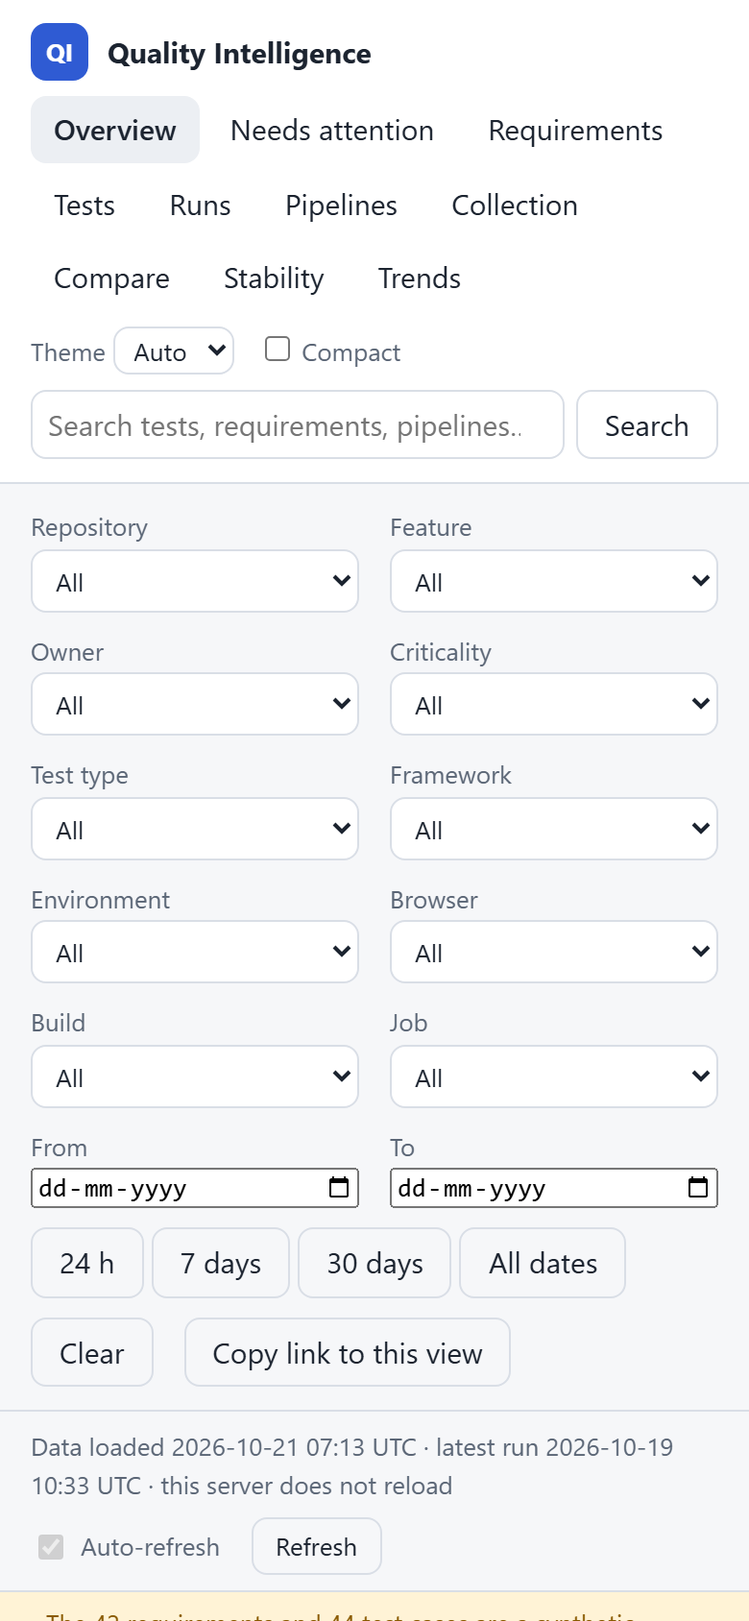
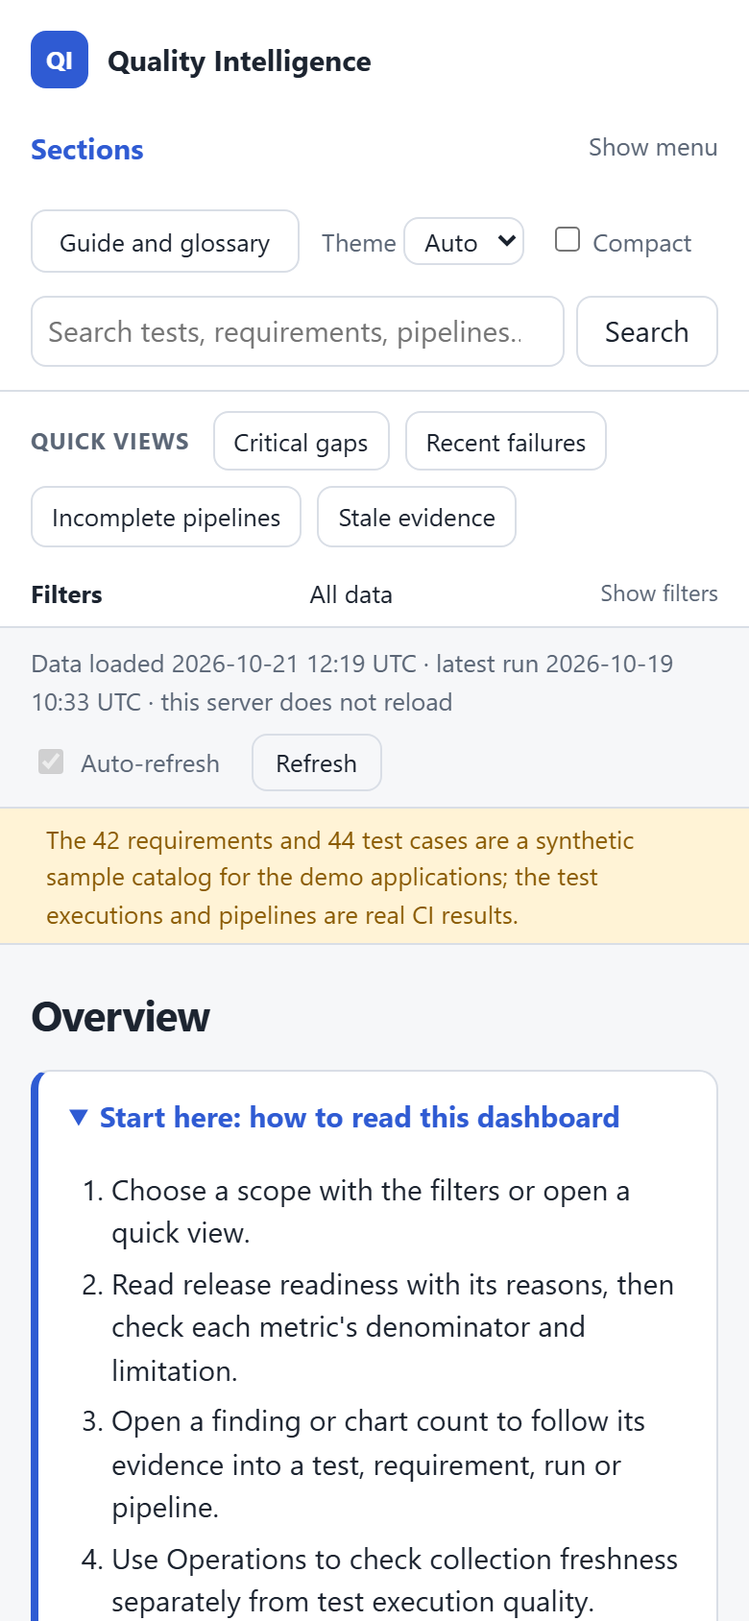
docs(dashboard): add UX guide and reviewed screenshots

diff --git a/tools/screenshots.py b/tools/screenshots.py
@@ -16,6 +16,7 @@ import sys
 import tempfile
 import threading
 import time
+from datetime import UTC, datetime, timedelta
 from pathlib import Path
 
 import uvicorn
@@ -25,12 +26,15 @@ from qualityintel.cli import main as cli_main
 from qualityintel.dashboard.app import create_app
 from qualityintel.gates.config import load_gate_config
 from qualityintel.history.store import HistoryStore
+from qualityintel.ingest.batch import import_pipeline
 from qualityintel.ingest.catalog_file import load_catalog
+from qualityintel.models.collection import PipelineCollection
 from qualityintel.workspace import Workspace
 
 ROOT = Path(__file__).parents[1]
 PIPELINES = ROOT / "samples" / "pipelines" / "cypress-taskboard"
 TASKBOARD_JOBS = ("api", "ui-chrome", "ui-firefox", "ui-edge", "component")
+TASKBOARD_REPO = "niranjankagri/cypress-typescript-framework"
 SHOTS = [
     # (file name, hash route, viewport width, colour scheme, full page)
     ("dashboard-overview.png", "#/", 1280, "light", True),
@@ -47,12 +51,15 @@ SHOTS = [
     ("dashboard-trends.png", "#/trends", 1280, "light", False),
     ("dashboard-compare.png", "#/compare?framework=testng&base=f5a40d5&head=1d03232", 1280, "light", False),
     ("dashboard-attention.png", "#/attention", 1280, "light", False),
+    ("dashboard-action-center.png", "#/attention", 1280, "light", True),
     ("dashboard-search.png", "#/search?q=checkout", 1280, "light", False),
     ("dashboard-phone.png", "#/", 390, "light", False),
 ]
 # Taken on the two real TaskBoard pipeline executions (samples/pipelines)
 PIPELINE_SHOTS = [
     ("dashboard-pipelines.png", f"#/pipelines?jobs={','.join(TASKBOARD_JOBS)}", 1280, "light", True),
+    ("dashboard-operations.png", "#/collection", 1280, "light", True),
+    ("dashboard-repository-coverage.png", "#/requirements", 1280, "light", True),
 ]
 
 
@@ -85,7 +92,7 @@ def main(argv: list[str]) -> int:
             store.snapshots(),
             gate=load_gate_config(ROOT / "samples" / "gates" / "nightly.toml"),
         )
-    pipelines = pipeline_workspace(Path(tempfile.mkdtemp()) / "pipelines.db")
+    pipelines = pipeline_workspace()
     if pipelines is None:
         print("pipeline samples did not import cleanly", file=sys.stderr)
         return 3
@@ -98,31 +105,54 @@ def main(argv: list[str]) -> int:
     return 0
 
 
-def pipeline_workspace(database: Path) -> Workspace | None:
-    """Both TaskBoard pipelines, imported with the documented command (one call per execution)."""
+def pipeline_workspace() -> Workspace | None:
+    """Both sample TaskBoard pipelines and their recorded collection outcomes."""
+    runs = []
     for folder in sorted(p for p in PIPELINES.iterdir() if p.is_dir()):
         _, commit, run_id = folder.name.split("_")
-        jobs = [
-            arg for report in sorted(folder.glob("*.json")) for arg in ("--job", f"{report.stem}={report}")
-        ]
-        with contextlib.redirect_stdout(io.StringIO()):
-            code = cli_main(
-                [
-                    "history",
-                    "import",
-                    "--database",
-                    str(database),
-                    "--pipeline",
-                    run_id,
-                    "--commit",
-                    commit,
-                    *jobs,
-                ]
-            )
-        if code != 0:
+        batch = import_pipeline(
+            {report.stem: [str(report)] for report in sorted(folder.glob("*.json"))},
+            run_id,
+            commit=commit,
+            repository=TASKBOARD_REPO,
+        )
+        if not batch.complete:
             return None
-    with HistoryStore(database) as store:
-        return Workspace(load_catalog(PIPELINES / "catalog.toml"), store.runs())
+        runs.extend(batch.runs)
+    collected_at = datetime.now(UTC) - timedelta(hours=1)
+    collections = [
+        PipelineCollection(
+            pipeline_id="39238241112",
+            attempt=1,
+            repository=TASKBOARD_REPO,
+            workflow="ci.yml",
+            run_number=10,
+            branch="main",
+            commit="80e331e",
+            conclusion="success",
+            url="https://github.com/niranjankagri/cypress-typescript-framework/actions/runs/39238241112",
+            collected_at=collected_at,
+            state="complete",
+        ),
+        PipelineCollection(
+            pipeline_id="38842296207",
+            attempt=1,
+            repository=TASKBOARD_REPO,
+            workflow="ci.yml",
+            run_number=6,
+            branch="main",
+            commit="a15d3c7",
+            conclusion="cancelled",
+            url="https://github.com/niranjankagri/cypress-typescript-framework/actions/runs/38842296207",
+            collected_at=collected_at,
+            state="incomplete",
+            problems=(
+                "job ui-firefox: artifact report-ui-firefox not found "
+                "(job not run, cancelled or failed early)",
+            ),
+        ),
+    ]
+    return Workspace(load_catalog(PIPELINES / "catalog.toml"), runs, collections=collections)
 
 
 def capture(
@@ -150,6 +180,14 @@ def capture(
             page.goto(f"http://127.0.0.1:{port}/{route}")
             page.locator("#view h1").wait_for()
             page.wait_for_load_state("networkidle")
+            page.evaluate(
+                """() => {
+                  if (document.activeElement instanceof HTMLElement) document.activeElement.blur();
+                  document.documentElement.scrollTop = 0;
+                  document.body.scrollTop = 0;
+                  window.scrollTo(0, 0);
+                }"""
+            )
             page.screenshot(path=out / name, full_page=full)
             print(f"saved {out / name}")
             context.close()

diff --git a/docs/dashboard.md b/docs/dashboard.md
@@ -20,7 +20,7 @@ a time. If a rebuild fails (database locked by a running import, corrupted file,
 the last good data stays, and the page says so: "The last refresh failed ...; the figures shown
 are from ...".
 
-The bar under the filters shows when the data was loaded, the latest run, the last collection
+The data bar shows when the snapshot was loaded, the latest run, the newest collection record
 and incomplete collections of the last 7 days ([collection.md](collection.md)). The page asks
 `/api/status` at the server's interval and re-renders the current view when the data changed;
 the address and every filter stay as they are. *Auto-refresh* switches that off (remembered in
@@ -35,21 +35,65 @@ every page and API call needs HTTP basic authentication. Put TLS in front when o
 
 | View | Shows | Drill-down |
 |---|---|---|
-| Overview | **release status** (ready / at risk / blocked / unknown, with every reason and the gate's rules, [readiness.md](readiness.md)), test executions, critical requirements without automation, flaky candidates, incomplete pipelines, latest collection; requirements in scope; requirement coverage, automation coverage, automated requirement coverage; execution pass rate and pass / fail / error / skip counts of the snapshot; snapshot runs; critical requirements without automation; failing requirements; other gaps | every card opens the list behind it (e.g. requirement coverage -> requirements without tests) |
+| Overview | **release status** (ready / at risk / blocked / unknown, with every reason and the gate's rules, [readiness.md](readiness.md)), test executions, critical requirements without automation, flaky candidates, incomplete pipelines, latest collection; requirements in scope; requirement coverage, automation coverage, automated requirement coverage; execution pass rate and pass / fail / error / skip counts of the snapshot; repository collection freshness; snapshot runs; critical requirements without automation; failing requirements; other gaps | cards and quick actions open the existing filtered list or evidence page |
 | Search | everything whose text contains every word of the query: repositories, workflows, pipelines (and GitHub run ids), tests, requirements, first lines of failure messages; grouped by kind with counts, query words marked; the header search opens it from any page; the repository and date filters apply | result -> its page (keeping the filters and the result's repository); pipeline -> its GitHub run |
-| Needs attention | newly failing tests, incomplete pipelines, critical gaps, recurring failures, confirmed duration regressions, flaky candidates (suspected), overdue collections; state (open, suspected, unknown, resolved), why each is listed, evidence count, first and last seen ([attention.md](attention.md)) | finding -> its test, pipeline, requirement or collection page; GitHub run |
+| Needs attention | existing findings grouped as Investigate now (open), Monitor (suspected or unknown), and Resolved; observed reason, evidence count, first and last seen, repository, affected entity, copy link ([attention.md](attention.md)) | finding -> its test, pipeline, requirement or collection page; GitHub run |
 | Requirements | id, title, feature, criticality, automated / linked test cases, coverage status, execution status; status filter | requirement -> its test cases and their latest executions |
 | Tests | every executed test with run, pass, fail, error, skip counts and last failure; search; latest-outcome filter | test -> investigation page: breadcrumbs (repository > workflow > pipeline > run > test), latest and previous result, context, repository and workflow, stability per context, source run with a link to the CI run, linked requirements and test cases, pass/fail pattern, duration chart with its numbers, latest failure and stack trace (shown as text, never as HTML, collapsed), two executions side by side (missing values say *not recorded*), every execution; copy the test identifier, the page link or a summary (text or Markdown) |
 | Compare | two builds side by side (runs, pass rate, counts and their differences, coverage snapshot, GitHub run attempts and incomplete pipelines of each build, a summary to copy) and the changes where both ran the same suite: newly failing, recovered, still failing, new, removed, slower, newly flaky; change-type chips; suites that ran in one build only listed separately ([history.md](history.md#comparing-builds)) | test -> its history |
 | Runs | every imported run with pipeline / job, context, counts and pass rate | run -> all results, failures first |
 | Pipelines | pipeline executions newest first, collected ones included even when they uploaded nothing; per pipeline: status (incomplete before the CI conclusion success / failure / cancelled), repository, workflow, run number, branch, commit, links to the exact GitHub run and commit, recorded problems, jobs with start time, attempt and counts, attempts of re-runs side by side; status chips and a workflow filter (both in the address); expected jobs ([pipelines.md](pipelines.md)) | job -> its run; run and commit -> GitHub |
-| Collection | per repository: last collection, fresh or overdue against `QI_COLLECTION_HOURS` (default 26 h), pipelines, complete, incomplete, results and CI conclusions of the last 7 days, every missing artifact and ingestion problem, link to the collection workflow (`QI_COLLECTION_URL`) ([collection.md](collection.md)) | repository -> its pipelines |
+| Collection | dashboard snapshot state and refresh time; per repository: last collection, last complete collection, fresh or overdue against `QI_COLLECTION_HOURS` (default 26 h), pipelines, complete, incomplete, results and CI conclusions of the last 7 days, every missing artifact and ingestion problem, link to the collection workflow (`QI_COLLECTION_URL`) ([collection.md](collection.md)) | repository -> its pipelines |
 | Trends | daily snapshots (results, pass rate, test duration, requirements by status), days that are not comparable (new suites, carried-over runs), duration per run for each context, coverage snapshots; every chart with its numbers in a table | run context charts list each run with its build |
 | Stability | class counts; tests needing attention with evidence; recurring failures; duration regressions; runs per context | test -> history; run strip -> run ([history.md](history.md)) |
 
 Filters (repository, feature, owner, criticality, test type, framework, environment, browser, build, pipeline job, from/to date) apply to every view
 and are kept in the address, so a filtered view can be bookmarked or shared. The drop-down values
 come from the data (`/api/facets`), never from a fixed list.
+
+**Navigation and quick views.** The header groups the existing routes as Overview, Investigate,
+Coverage, Execution, Analytics and Operations. Links keep the active URL-backed scope; the active
+section is marked for keyboard and screen-reader users. At phone widths, the navigation and
+unfiltered advanced filters start collapsed and can be opened as needed; the filter panel can be
+collapsed at every width. Quick
+views apply these existing filters and routes: Critical gaps (attention kind), Recent failures
+(failed latest outcomes from the last seven days), Incomplete pipelines, and Stale evidence.
+The active filter chips include page-specific filters and can remove them; Clear removes the
+current route filters without removing comparison build selectors. Details keep a Back to filtered
+results link when opened from a result list.
+
+**Overview guide and definitions.** The overview opens with a short workflow guide; *Guide and
+glossary* in the header can reopen it. Each headline metric has a keyboard-accessible definition.
+The copied release summary is built only from `/api/readiness`, `/api/summary` and `/api/collection`
+values for the current scope, and carries the gate reasons and limitations. The overview also
+shows test changes for the latest two builds only when the existing comparison API finds shared
+suites; its counts link to the same filtered Compare view. It does not present an incomparable
+pair as a delta. Collection freshness counts all repositories whose latest collection record is
+within the configured server window, regardless of run filters; it is not a test pass rate. An
+empty repository set is `n/a`.
+
+**Requirement breakdowns.** Criticality, feature and owner cells separate linked-test coverage,
+automation, execution status and stale evidence. Each nonzero cell drills into a query that filters
+that exact field. Repository rows count only requirements with a matched result linked to a
+requirement in that repository. They describe observed execution evidence, not repository
+ownership or an expectation that a repository covers the entire global catalog. Requirements
+without a matched result in that repository are excluded from that breakdown's denominator.
+
+**Action center groups.** The existing attention analysis remains the source of findings and order.
+Open findings appear under *Investigate now*. Suspected and unknown findings appear under
+*Monitor*. Resolved findings remain under *Resolved*. These are deterministic presentation groups
+of the documented states in [attention.md](attention.md), not new severity or diagnosis rules.
+Filtering to a finding state opens its group. Finding type filtering is applied by the API before its
+200-item limit. Each row retains the reason,
+evidence count, first and last observation, repository when recorded, investigation link, and
+GitHub run link when available; the copy action copies that filtered investigation URL.
+
+**Operations freshness.** Collection shows the dashboard snapshot's load time, last refresh check,
+refresh interval, and latest collection record separately from each repository's last collection,
+last complete collection and expected-window freshness. A complete collection means required jobs
+and reports were recorded; the CI conclusion (success, failure or cancelled) remains a separate
+field. The Refresh button checks for new source data; there is no collection retry endpoint, so it
+does not launch a workflow.
 
 Coverage and pass rate are separate cards on purpose ([ADR 0004](adr/0004-separate-metrics.md)).
 
@@ -94,10 +138,12 @@ with 6 or more rows get a row filter, *Download CSV* (the filtered and sorted ro
 columns; cells a spreadsheet would run as formulas are made inert) and a column chooser; long
 tables show 50 rows per page. Sorting and filtering only reorder what the API returned.
 
-**Requirements:** a matrix by criticality, by feature and by owner (coverage status, execution status,
-stale evidence; from `/api/requirements/matrix`), each coverage count a link to those
-requirements; *Uncovered critical requirements* as a one-click filter; per requirement its latest
-execution and a *stale* badge when that is older than 14 days.
+**Requirements:** a matrix by criticality, feature, owner and observed repository evidence (from
+`/api/requirements/matrix`), each nonzero cell linked to matching requirements. The API's
+`coverage_status`, `execution_status`, `observed` and `stale` filters keep these drill-downs exact;
+the original `status` filter remains available. Per requirement, the table distinguishes linked
+cases, automated cases, matched results, execution status and a *stale* badge when the latest
+execution is older than 14 days.
 
 **Stability:** flaky candidates are labelled *suspected*; each row shows failure rate, last
 failure, the builds with mixed results, the evidence, and links to the last failing and the last
@@ -114,6 +160,8 @@ name) to the runs of that day; every chart keeps its table of numbers.
 | ![History of the test that failed on 13 Oct](images/dashboard-test-history.png) | ![Runs, dark theme](images/dashboard-run.png) |
 | ![Trends](images/dashboard-trends.png) | ![Stability](images/dashboard-stability.png) |
 | ![Pipelines: the cancelled TaskBoard run is incomplete](images/dashboard-pipelines.png) | |
+| ![Action center findings grouped for investigation](images/dashboard-action-center.png) | ![Operations snapshot and collection freshness](images/dashboard-operations.png) |
+| ![Requirement evidence breakdown by repository](images/dashboard-repository-coverage.png) | ![Phone view with collapsed navigation and filters](images/dashboard-phone.png) |
 
 Made by `python tools/screenshots.py`; CI takes the same screenshots on every run (artifact
 `dashboard-e2e`).
@@ -128,13 +176,13 @@ Interactive documentation: `/docs` (generated from the routes, so it cannot drif
 | `GET /api/status?check=` | data version, when it was loaded, latest run, refresh interval, last check and error, stale flag, collection freshness; `check=true` looks for new data first |
 | `GET /api/facets` | filter values present in the data |
 | `GET /api/search?q=&limit=` | search results grouped by kind (at most `limit`, 1-50, per group) with full counts; `q` 2-100 characters, else 422 |
-| `GET /api/attention` | findings with state, severity, why, evidence, first and last seen, links ([attention.md](attention.md)) |
+| `GET /api/attention?kind=` | findings with state, severity, why, evidence, first and last seen, links; optional finding kind filter is applied before the 200-item limit ([attention.md](attention.md)) |
 | `GET /api/tests/summary?key=&link=` | a copyable summary of a test's investigation, as `text` and `markdown`; `link` (http/https only) is included |
 | `GET /api/compare/summary?base=&head=&link=` | the same for a build comparison |
 | `GET /api/readiness` | release status of the scope with reasons, gate rules and headline numbers |
 | `GET /api/summary` | coverage metrics, gaps, snapshot runs, outcome counts, pass rate |
-| `GET /api/requirements/matrix` | requirements by criticality and feature: coverage, execution and stale counts |
-| `GET /api/requirements?status=` | requirement rows; `status` = a coverage or execution status |
+| `GET /api/requirements/matrix` | requirements by criticality, feature, owner and observed repository evidence |
+| `GET /api/requirements?status=&coverage_status=&execution_status=&observed=&stale=` | requirement rows; exact field filters are additive, and `status` remains the combined legacy filter |
 | `GET /api/requirements/{id}` | one requirement, its test cases and their latest executions |
 | `GET /api/tests?outcome=` | every executed test with counts |
 | `GET /api/tests/history?key=` | all executions of one test, newest first (key in the query: it contains `/` and `::`) |
@@ -161,9 +209,10 @@ served with a strict Content-Security-Policy (`default-src 'self'`, no inline sc
 `X-Content-Type-Options: nosniff` and `Referrer-Policy: no-referrer`. Light and dark themes
 follow the operating system.
 
-States: a loading line while data is fetched; an empty-state text when a list has no rows; an
-error box with the API's message and a Retry button when a request fails; a message for unknown
-pages and ids.
+States: skeleton cards on the first load; a loading line while data is fetched; an empty-state
+text when a list has no rows; an error box with the API's message and a Retry button when a request
+fails; a message for unknown pages and ids. Native `details` and `dialog` elements provide
+collapsible filters, definitions and the guide without adding a framework or external code.
 
 ## How it is tested
 

diff --git a/README.md b/README.md
@@ -26,6 +26,10 @@ It runs no tests and replaces no framework; it complements the automation projec
 
 ![Dashboard overview on the sample data](docs/images/dashboard-overview.png)
 
+The overview includes a comparable-build change summary when the selected builds share suites.
+The action center, collection freshness and repository evidence breakdown are documented with
+sample screenshots in [the dashboard guide](docs/dashboard.md#screenshots-sample-data).
+
 ## Try it (about two minutes)
 
 Python 3.12 or newer and Git. Nothing else: no database server, no configuration file, no
@@ -63,8 +67,8 @@ CI on Linux and Windows on every push: [docs/validation.md](docs/validation.md).
 | Quality gates | `qi gate` | configurable rules; passed / failed / incomplete as exit codes 0 / 1 / 3; JSON, HTML and Markdown reports | [quality gates](docs/quality-gates.md) |
 | Collection | `qi collect` | the CI results of the whole portfolio (23 repositories, 59 jobs: TestNG, JUnit 5, Playwright, pytest, Cypress, Robot, Cucumber, Vitest, node:test, k6), fetched from their workflow artifacts every day: one pipeline execution per run attempt, idempotent, failed and cancelled runs kept apart, missing reports in a daily audit | [collection](docs/collection.md) |
 | Pipelines | `--pipeline ID --job NAME=PATH` | the jobs of one CI execution grouped; re-run attempts; a gate never decides on a pipeline with a missing, empty or inconsistent job; Pipelines page | [pipelines](docs/pipelines.md) |
-| Dashboard | `qi dashboard` | read-only web UI and JSON API (`/docs`) over the same numbers: release readiness, requirement matrix by criticality, feature and owner, pipelines and collection health, build comparison, test investigation, flaky evidence, trends; sortable and exportable tables; live reload of new data; WCAG 2.2 checks in three browser engines; this machine only unless a login (or public mode) is set | [dashboard](docs/dashboard.md), [OpenAPI](docs/api/openapi.json) |
-| Investigation | Search, Needs attention | search across tests, failure messages, requirements, pipelines and repositories; one list of what needs attention with its evidence and state; breadcrumbs from repository to test; copyable summaries | [dashboard](docs/dashboard.md), [attention](docs/attention.md) |
+| Dashboard | `qi dashboard` | read-only web UI and JSON API (`/docs`) over the same numbers: readiness with definitions and evidence links; coverage by criticality, feature, owner and observed repository results; grouped navigation and collapsible URL-backed filters; responsive light/dark views; collection and snapshot health; accessible charts and tables; sortable and exportable data; WCAG 2.2 checks in three browser engines | [dashboard](docs/dashboard.md), [OpenAPI](docs/api/openapi.json) |
+| Investigation | Search, Needs attention | search across tests, failure messages, requirements, pipelines and repositories; evidence-backed action groups and copy links; breadcrumbs and Back to filtered results; test history, failure details and deterministic copy summaries | [dashboard](docs/dashboard.md), [attention](docs/attention.md) |
 | Operations | `qi history prune / backup / check / restore / fetch` | retention, verified backups and restores, a published history fetched safely; login lock-out, HSTS, JSON access log | [operations](docs/operations.md), [security](docs/security.md) |
 | Hosting | `Dockerfile`, `render.yaml` | the public demonstration: a non-root image, deployed from `main` after CI passed, fed by the daily collection, smoke-tested daily | [deployment](docs/deployment.md) |
 

diff --git a/docs/attention.md b/docs/attention.md
@@ -17,6 +17,22 @@ where there is one). Code: `qualityintel/attention.py` (the rules) and `Workspac
 
 Nothing is called *open* unless the latest evidence supports it.
 
+## Action center groups
+
+The dashboard groups the existing states to make the next action clear without changing the
+finding rules:
+
+| Dashboard group | Included states | Meaning |
+|---|---|---|
+| **Investigate now** | open | Latest evidence still supports the finding. |
+| **Monitor** | suspected, unknown | The pattern is mixed or evidence is insufficient to resolve it. |
+| **Resolved** | resolved | Later evidence shows the condition gone; history remains visible. |
+
+These labels do not add a severity or infer a cause. Findings remain in the backend's documented
+state and severity order. Finding-kind filtering happens in the API before its 200-finding response
+limit. Each row keeps the observed reason, evidence count, first and last seen, repository when
+recorded, and the investigation and GitHub links when available.
+
 ## Findings, by severity
 
 The list is sorted by state (open, suspected, unknown, resolved), then by this documented
@@ -38,5 +54,6 @@ a later re-run attempt passed (the re-run is the newer execution).
 ## Filters and limits
 
 Repository and date filters apply to runs and collection records; requirement filters to the
-critical gaps. At most 200 findings are listed (the total is shown). The findings that come from
-runs are cached per data snapshot; collection freshness is evaluated at each request.
+critical gaps. At most 200 findings are listed (the total is shown). A `kind` query filters before
+that limit and reports counts for the selected kind. Findings from runs are cached per data
+snapshot; collection freshness is evaluated at each request.

diff --git a/docs/security.md b/docs/security.md
@@ -41,6 +41,12 @@ left to the people who run it. Reviewed on 2026-10-20 (Phase 7 of the post-1.0 p
 | Vulnerable dependencies, leaked secrets in commits | exact versions pinned; CI job *Dependency audit* runs `pip-audit` on every installed version on every push (none known on 2026-10-21); Dependabot security and monthly grouped updates; GitHub secret scanning with push protection | `.github/workflows/ci.yml`, `.github/dependabot.yml` |
 | A gate passing on incomplete input | missing, unreadable or empty results and incomplete pipeline executions make the gate *incomplete* (exit 3) | gate and pipeline tests ([quality-gates.md](quality-gates.md), [pipelines.md](pipelines.md)) |
 
+**Dashboard UX update (2026-10-21).** The guide dialog, metric definitions, grouped navigation and
+action links are static same-origin UI. Imported values continue to enter the page as text nodes;
+the strict CSP, GET-only API, authentication behavior, referrer policy and formula-safe CSV
+download are unchanged. UI preferences remain browser-local; filters remain in the URL. The
+dashboard's Refresh control checks the snapshot only and cannot trigger a collection workflow.
+
 ## Running the dashboard for a team
 
 Modes, retention, backups, monitoring and incidents: [operations.md](operations.md).

diff --git a/docs/operations.md b/docs/operations.md
@@ -62,6 +62,14 @@ qi history restore backups/quality-2026-10-21.db --database .qi/quality.db --rep
 | Collection | Collection page, `collect.yml` run page | every repository *on time*, no incomplete pipelines in 7 days |
 | Data problems | `/api/status` `collection_problems`, the freshness bar | empty |
 
+The dashboard separates **snapshot refresh** from **CI collection** and both from **test
+execution quality**. Collection shows when the current snapshot was loaded, when its status was
+last checked, and the last collection record per repository. It also shows the last *complete*
+collection: all expected jobs and reports were recorded, regardless of whether CI concluded
+success, failure or cancelled. The Refresh button checks whether source data changed; it does not
+start a CI workflow. There is no collection retry API in this read-only dashboard. Use the linked
+collection workflow and its GitHub run log to investigate missing artifacts or ingestion errors.
+
 A failed reload keeps the last good data and marks it stale (the bar says so); the server never
 shows a half-loaded state. The collection workflow fails when a producer cannot be read, so its
 own run history is the alert.

diff --git a/docs/metrics.md b/docs/metrics.md
@@ -109,6 +109,13 @@ can be used as a filter value to find incomplete records).
 
 Rows can add up to more than the total; the total is always computed directly, never summed.
 
+The dashboard's repository breakdown is **observed execution evidence**, not a repository-level
+coverage ratio: for each repository it counts unique in-scope requirements with at least one
+matched result from a linked test case in that repository. Requirements with no such result are
+outside that repository row's denominator. The catalog has no requirement-to-repository ownership
+field, so the dashboard does not guess ownership or treat every repository as responsible for the
+global catalog.
+
 ## Filters
 
 | Filter | Applies to | Effect |
